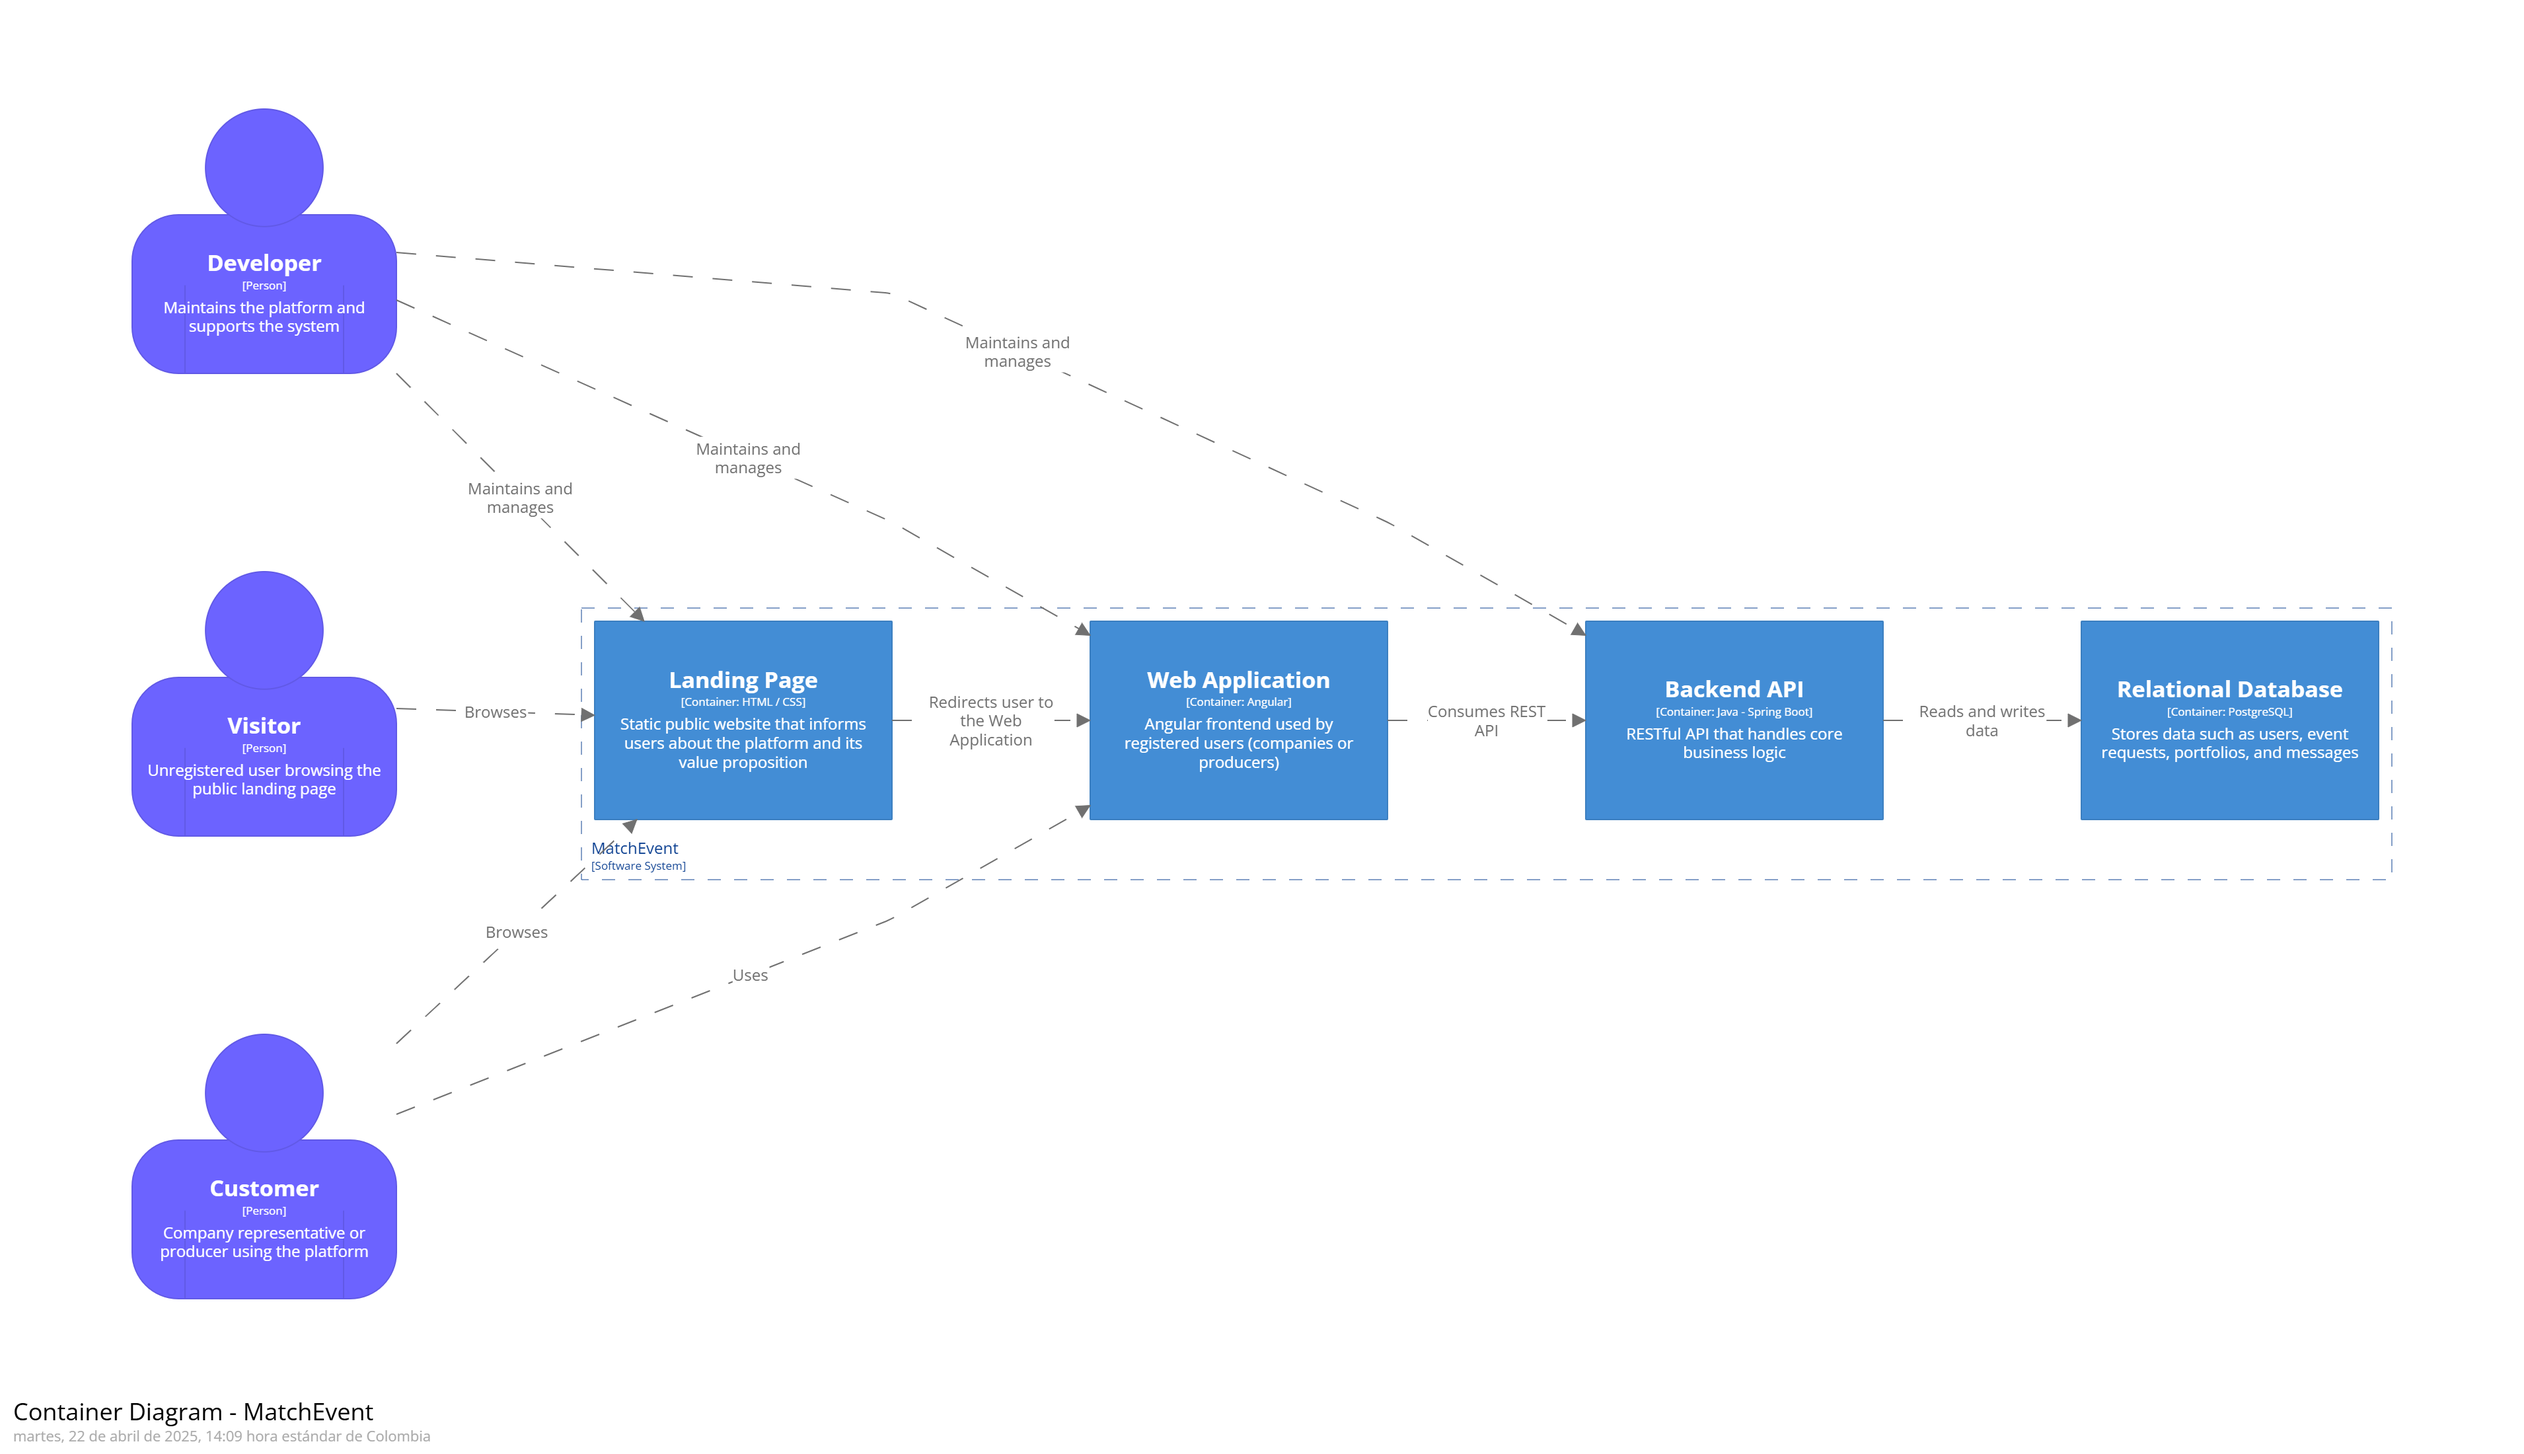
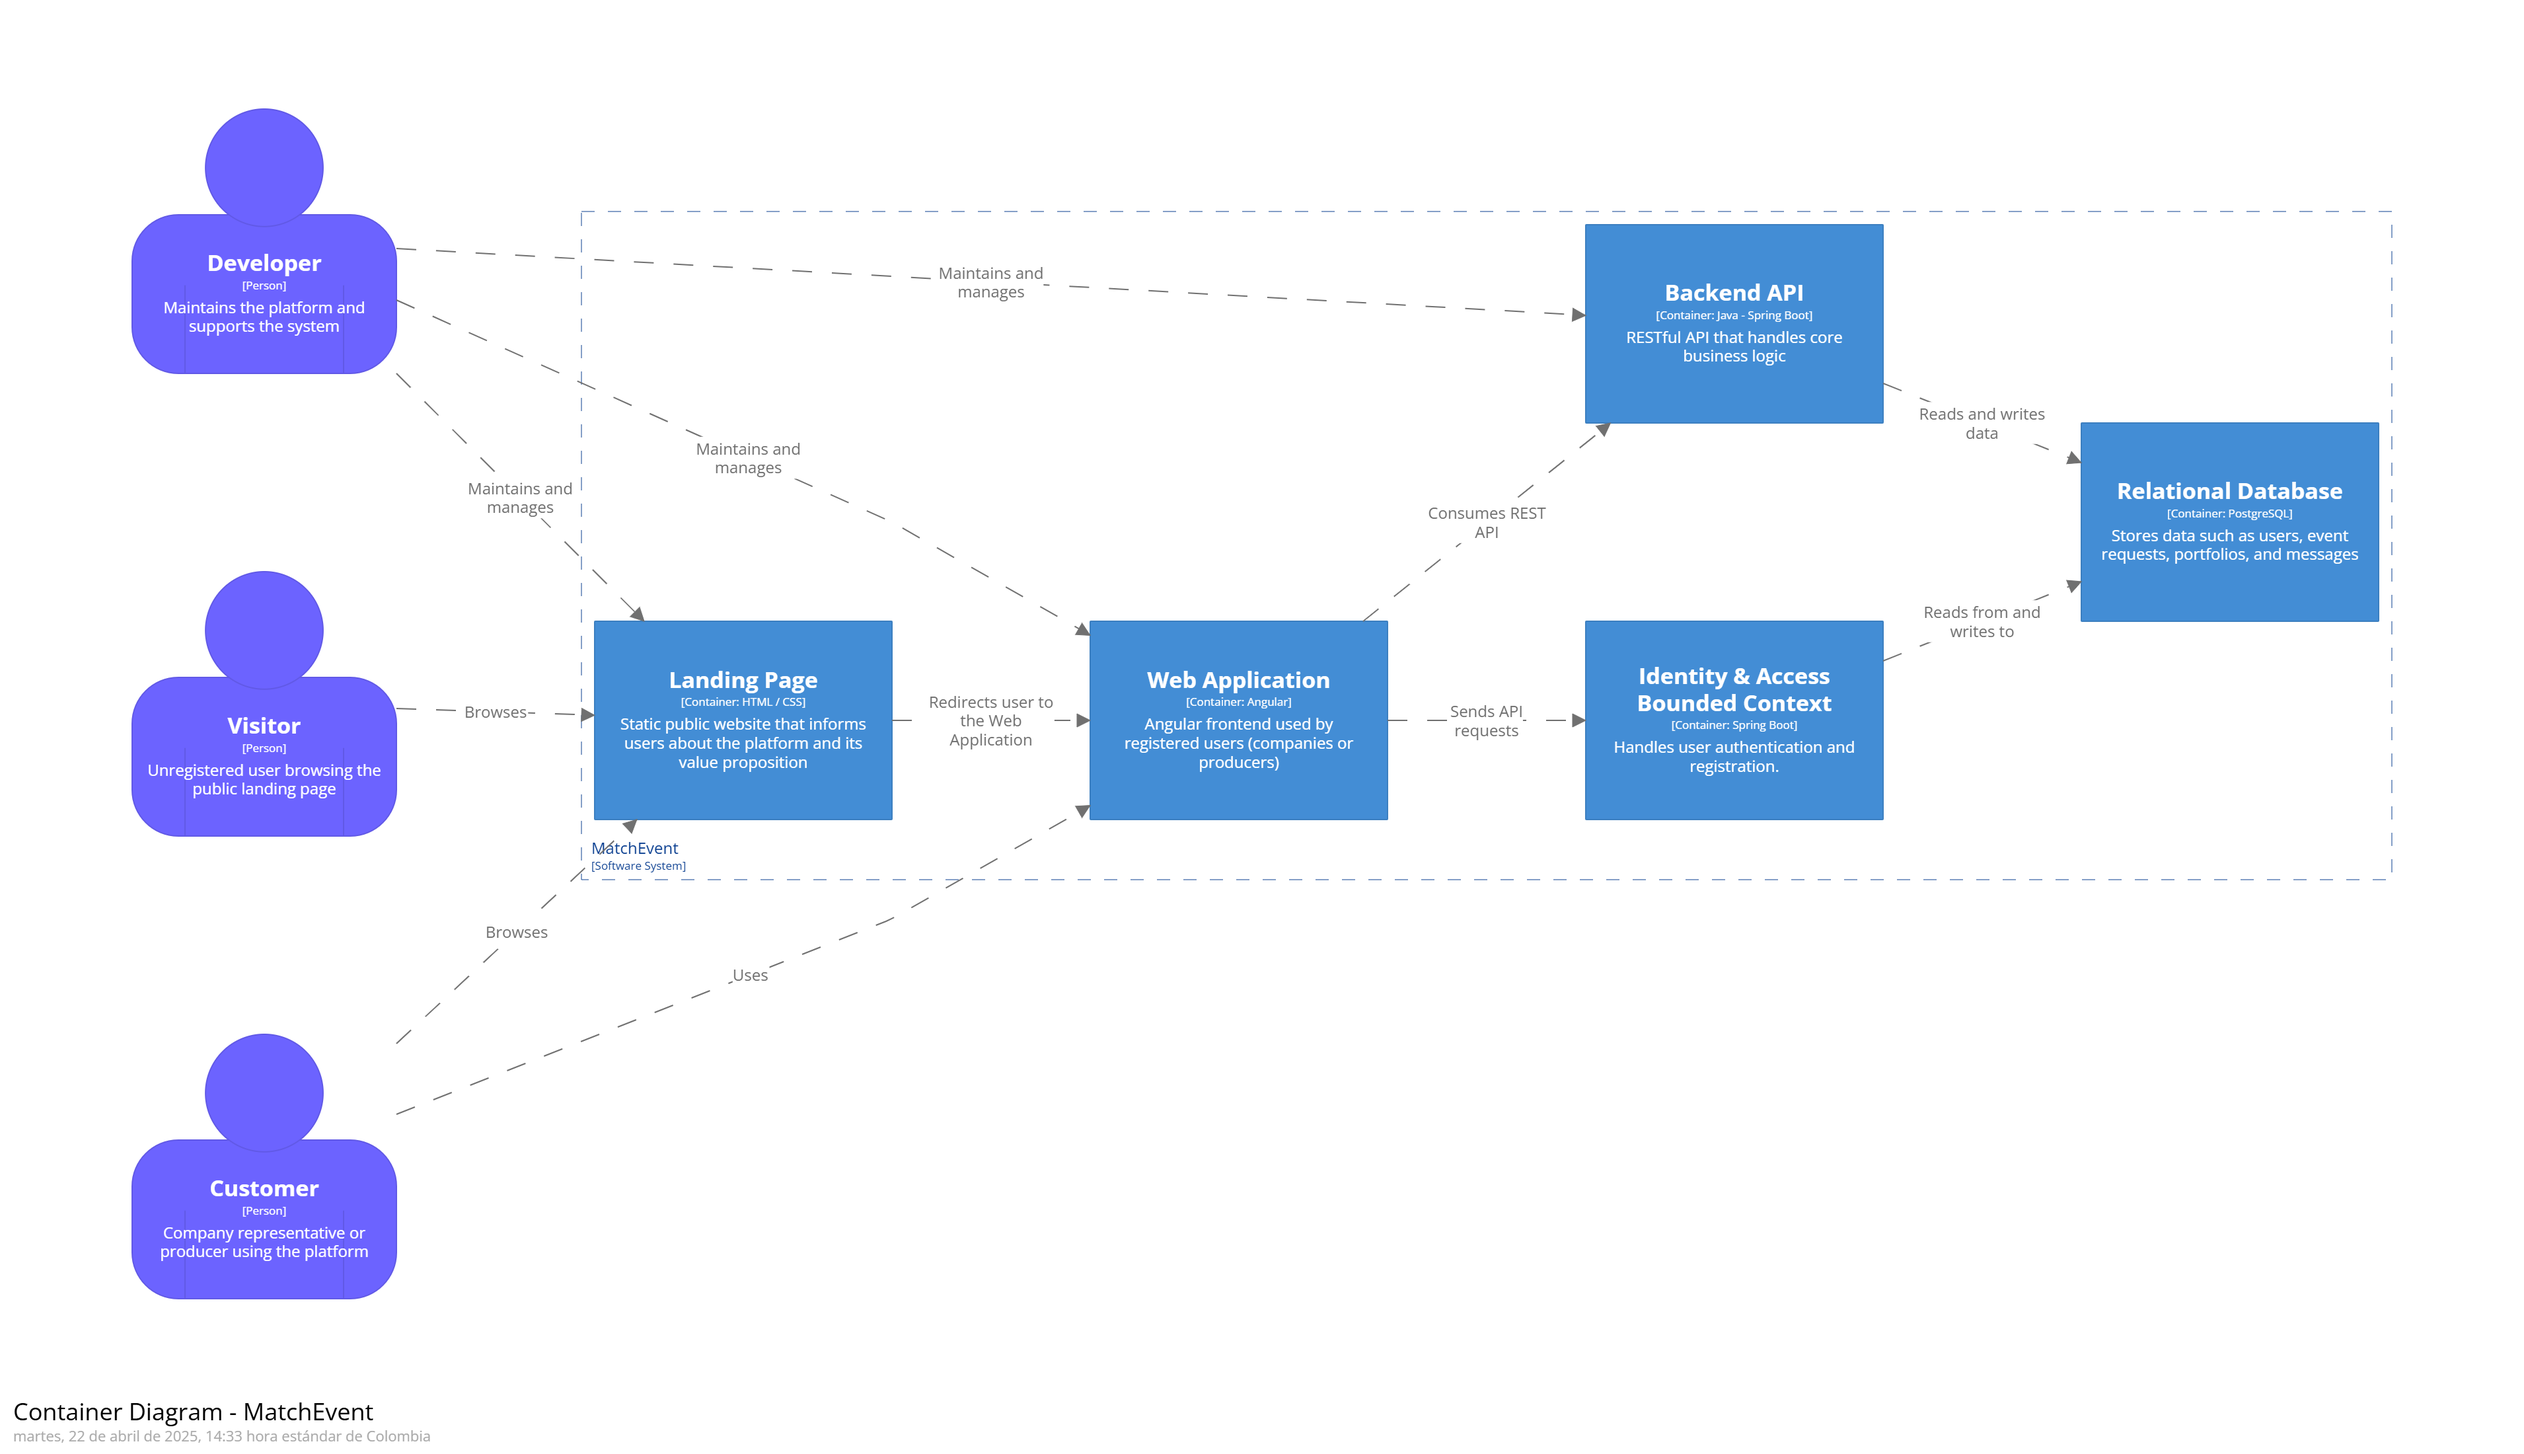
feat: add Software Architecture Components Diagrams. -Bounded Context Identity and Access.

diff --git a/README.md b/README.md
@@ -342,6 +342,18 @@ Elementos en el diagrama de contenedores:
 
 ![Software Architecture Container Diagrams](/images/containerDiagram.png)
 ### 4.6.3. Software Architecture Components Diagrams.
+**Bounded Context Identity and Access:**
+
+Elementos en el diagrama de componentes:
+- Web Application: Aplicación web que permite a los usuarios interactuar con la plataforma.
+- User Controller: Controlador que gestiona las solicitudes de los usuarios y la autenticación.
+- User Service: Servicio que maneja la lógica de negocio relacionada con los usuarios.
+- User Repository: Repositorio que interactúa con la base de datos para almacenar y recuperar información de los usuarios.
+- Database: Base de datos que almacena la información de los usuarios, solicitudes y servicios.
+
+**Figura 8: Bounded Context Identity and Access**
+
+![Bounded Context Identity and Access](/images/identityAndAccessBoundedContext.png)
 ### 4.7. Software Object-Oriented Design.
 ### 4.7.1. Class Diagrams.
 ### 4.7.2. Class Dictionary.
